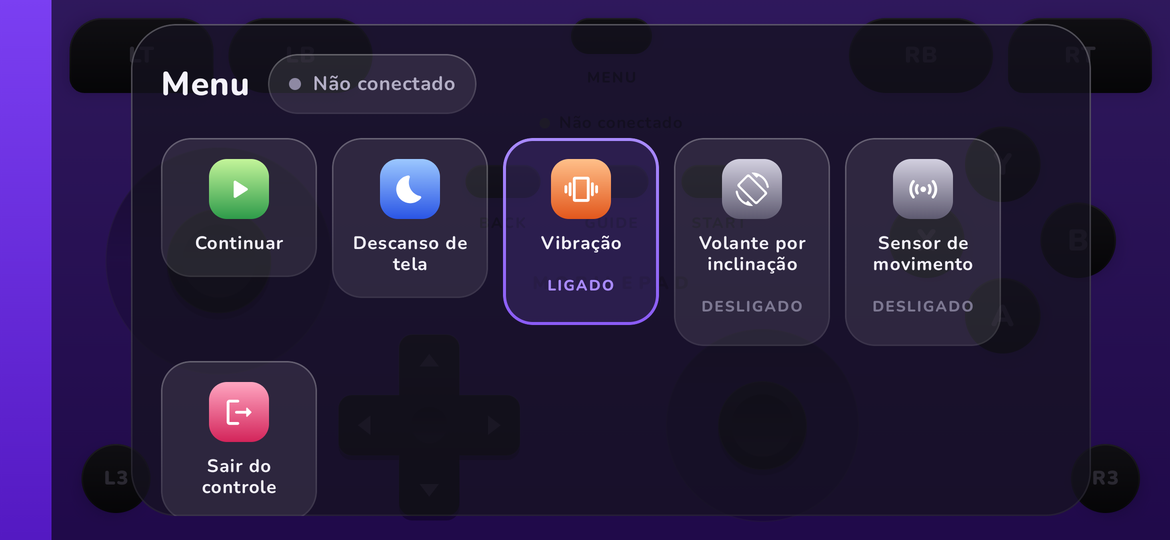
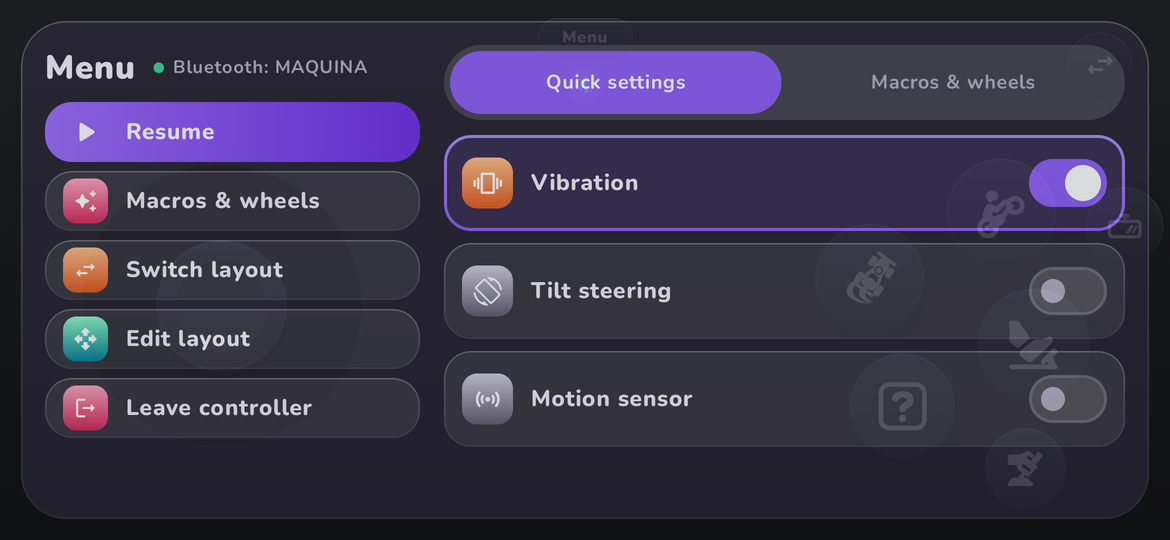
README: new screenshots of the current app in English (controller, Mario Kart preset, layout editor, connect, profiles, skins, motion, menu, macros) and the Lab

diff --git a/README.md b/README.md
@@ -69,11 +69,18 @@
 ## Screenshots
 
 <p align="center">
-  <img src="docs/images/menu.png" width="420" alt="In-game menu">
-  <img src="docs/images/connect.png" width="420" alt="Connection screen">
-  <img src="docs/images/settings.png" width="420" alt="Settings: controller skin, appearance, import Delta skins">
-  <img src="docs/images/macros.png" width="420" alt="Macros and radial menus">
-  <img src="docs/images/motion.png" width="420" alt="Motion settings">
+  <img src="docs/images/mario-kart.png" width="420" alt="Mario Kart Wii preset: floating stick and icon buttons on the right">
+  <img src="docs/images/layout-editor.png" width="420" alt="Layout editor: move, resize, opacity, custom buttons with lock">
+  <img src="docs/images/connect.png" width="420" alt="Connect: Wi-Fi, USB and Bluetooth">
+  <img src="docs/images/profiles.png" width="420" alt="Game profiles">
+  <img src="docs/images/skins.png" width="420" alt="Controller skins">
+  <img src="docs/images/motion.png" width="420" alt="Motion: steering, sensor, shake, DSU">
+  <img src="docs/images/menu.png" width="420" alt="In-game menu with quick settings">
+  <img src="docs/images/macros.png" width="420" alt="Macros and radial wheels">
+</p>
+
+<p align="center">
+  <img src="docs/images/lab.png" width="720" alt="Mobilepad Lab in the companion: latency per stage, histogram, CDF, losses">
 </p>
 
 ## Download
